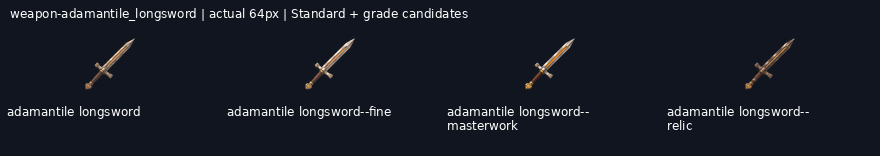
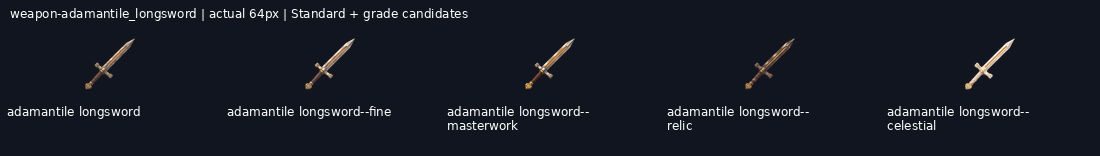
Deliver weapon-adamantile_longsword--celestial review candidate

diff --git a/art/_archive/gear/2026-11-20-reset-continuation/HANDOFF.md b/art/_archive/gear/2026-11-20-reset-continuation/HANDOFF.md
@@ -1,13 +1,13 @@
 # Reset continuation progress
 
-Branch: `art/2026-11-20-reset-continuation`. New deliveries: 49/70.
+Branch: `art/2026-11-20-reset-continuation`. New deliveries: 50/70.
 
 Shared coordination: https://github.com/leonpentastorm/Project-Heaven-Cry/issues/3 . Read START-HERE.md before extending this queue.
 
 All new entries remain review-candidate; production_approved:false and implementation_ready:false. Exact-outline review remains pending.
 
-Ready jobs: weapon-adamantile_longsword--celestial.
+Ready jobs: .
 
-Pending jobs: weapon-hellraiser_rotary--celestial, weapon-purifier_flamer--masterwork, weapon-purifier_flamer--relic, weapon-purifier_flamer--celestial, weapon-dock_cutter--masterwork, weapon-dock_cutter--relic, weapon-dock_cutter--celestial, weapon-broadback_sabre--relic, weapon-broadback_sabre--celestial, weapon-short_draw--fine, weapon-short_draw--masterwork, weapon-short_draw--relic, weapon-short_draw--celestial, weapon-long_draw--fine, weapon-long_draw--masterwork, weapon-long_draw--relic, weapon-long_draw--celestial, weapon-kemizuchi_side_sword--masterwork, weapon-kemizuchi_side_sword--relic, weapon-kemizuchi_side_sword--celestial, weapon-adamantile_longsword--celestial.
+Pending jobs: weapon-hellraiser_rotary--celestial, weapon-purifier_flamer--masterwork, weapon-purifier_flamer--relic, weapon-purifier_flamer--celestial, weapon-dock_cutter--masterwork, weapon-dock_cutter--relic, weapon-dock_cutter--celestial, weapon-broadback_sabre--relic, weapon-broadback_sabre--celestial, weapon-short_draw--fine, weapon-short_draw--masterwork, weapon-short_draw--relic, weapon-short_draw--celestial, weapon-long_draw--fine, weapon-long_draw--masterwork, weapon-long_draw--relic, weapon-long_draw--celestial, weapon-kemizuchi_side_sword--masterwork, weapon-kemizuchi_side_sword--relic, weapon-kemizuchi_side_sword--celestial.
 
 Quota state: null.
